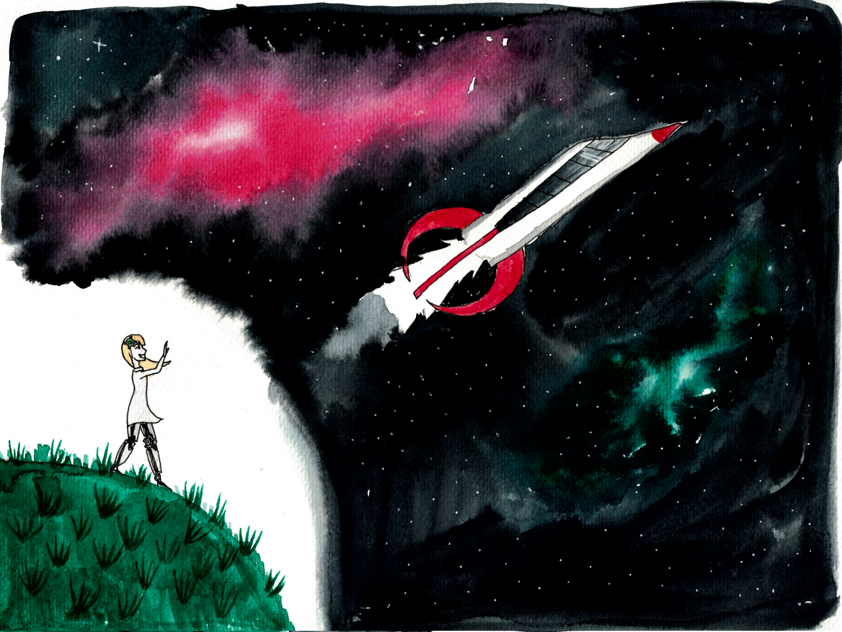
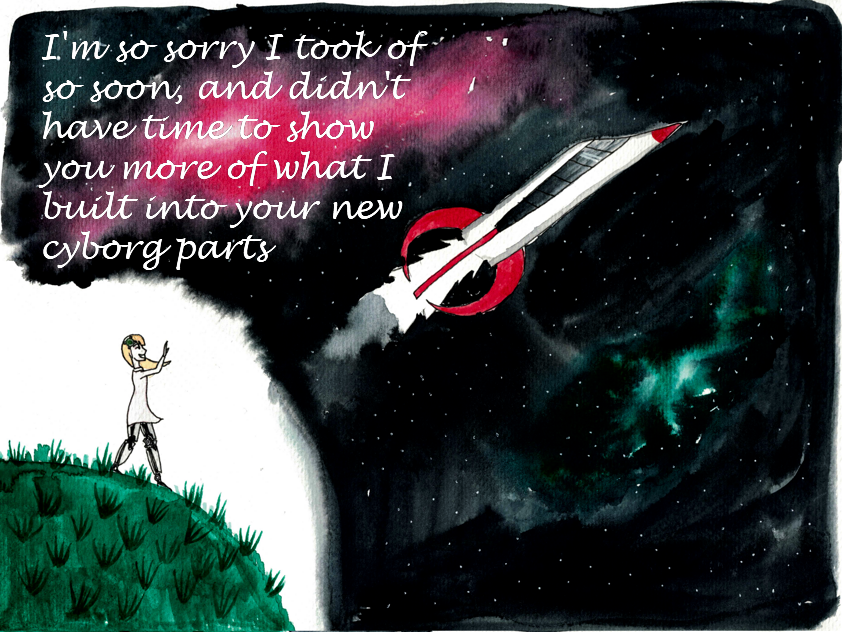
fjernelse af fejl igen igen igen igen

Changed region(s): [[0.0309, 0.0601, 0.4941, 0.4209]]

diff --git a/Lily/src/lily/Splashscreen2Controller.java b/Lily/src/lily/Splashscreen2Controller.java
@@ -1,0 +1,67 @@
+/*
+ * To change this license header, choose License Headers in Project Properties.
+ * To change this template file, choose Tools | Templates
+ * and open the template in the editor.
+ */
+package lily;
+
+import Game_data.GameFacade;
+import java.io.IOException;
+import java.net.URL;
+import java.util.ResourceBundle;
+import javafx.event.ActionEvent;
+import javafx.fxml.FXML;
+import javafx.fxml.FXMLLoader;
+import javafx.fxml.Initializable;
+import javafx.scene.Parent;
+import javafx.scene.Scene;
+import javafx.scene.control.Button;
+import javafx.scene.control.TextArea;
+
+
+/**
+ * FXML Controller class
+ *
+ * @author Zuzu
+ */
+public class Splashscreen2Controller implements Initializable {
+
+    @FXML
+    private TextArea labyrinthEndTextArea;
+    @FXML
+    private Button labyrinthEndConfirmButton;
+
+    private GameFacade facade = new GameFacade();
+
+    static Scene scene;
+
+    Parent root;
+
+    /**
+     * Initializes the controller class.
+     */
+    @Override
+    public void initialize(URL url, ResourceBundle rb) {
+        // TODO
+        if (facade.getWon("Brain")) {
+            labyrinthEndTextArea.appendText("BRAINSYSTEMS RESTORED [OK]\nBRAINSYSTEM STABILIZED [OK]\nPRESS CONFIRM TO PROCEED");
+
+        } else {
+            labyrinthEndTextArea.appendText("CONNECTION TO BRAINSYSTEM LOST. ERROR.. ERR... BRAINSYSTEM NONFUNCTIONAL\nPRESS CONFIRM TO PROCEED!");
+
+        }
+
+    }
+
+    @FXML
+    private void labyrinthEndButton(ActionEvent event) throws IOException {
+        changeScene("GameMenu");
+    }
+
+    public void changeScene(String newScene) throws IOException {
+        root = FXMLLoader.load(getClass().getResource(newScene + ".fxml"));
+        scene = labyrinthEndConfirmButton.getScene();
+        scene.setRoot(root);
+        scene.getRoot().requestFocus();
+    }
+}

diff --git a/Lily/src/lily/FXMLSplashController.java b/Lily/src/lily/FXMLSplashController.java
@@ -58,7 +58,10 @@ public class FXMLSplashController implements Initializable {
         mainBack[1] = new Image(getClass().getResource("/Assets/2.png").toExternalForm());
         mainBack[2] = new Image(getClass().getResource("/Assets/3.png").toExternalForm());
         mainBack[3] = new Image(getClass().getResource("/Assets/4.png").toExternalForm());
-
+        Image succes = new Image(getClass().getResource("/Assets/succes.png").toExternalForm());
+        Image para = new Image(getClass().getResource("/Assets/para.png").toExternalForm());
+        Image brain = new Image(getClass().getResource("/Assets/Brain.png").toExternalForm());
+        Image dead = new Image(getClass().getResource("/Assets/Dead.png").toExternalForm());
         if (checkArray < mainBack.length) {
             view.setImage(mainBack[checkArray]);
             checkArray++;
@@ -67,22 +70,22 @@ public class FXMLSplashController implements Initializable {
             if (facade.getWon("Legs") && facade.getWon("Brain") && facade.getWon("Heart")) {
                 //Working
                 
-                
+                view.setImage(succes);
                 
             } else if (facade.getWon("Brain") && facade.getWon("Heart")) {
                 //Paralyzed
                 
-                
+                view.setImage(para);
                 
             } else if (facade.getWon("Heart")) {
                 //Braindamage
                 
-                
+                view.setImage(brain);
                 
             } else {
                 //Dead
                 
-                
+                view.setImage(dead);
                 
             }
             

diff --git a/Lily/src/lily/GameMenuController.java b/Lily/src/lily/GameMenuController.java
@@ -53,7 +53,7 @@ public class GameMenuController implements Initializable {
 
     @FXML
     private void legsAction(MouseEvent event) throws IOException {
-        if (!facade.getCompleted("Legs") && !facade.getCompleted("brain") && !facade.getCompleted("Heart")) {
+        if (!facade.getCompleted("Legs") && !facade.getCompleted("Brain") && !facade.getCompleted("Heart")) {
             changeScene("FXMLDocument", legs);
         }
 
@@ -67,16 +67,16 @@ public class GameMenuController implements Initializable {
 
     @FXML
     private void heartActon(MouseEvent event) throws IOException {
-        if (facade.getCompleted("Legs") && facade.getCompleted("brain") && !facade.getCompleted("Heart")) {
-         //   changeScene("", heartButton);
+        if (facade.getCompleted("Legs") && facade.getCompleted("Brain") && !facade.getCompleted("Heart")) {
+          // changeScene("", heartButton);
         }
 
     }
 
     @FXML
     private void brainAction(MouseEvent event) throws IOException {
-        if (facade.getCompleted("Legs") && !facade.getCompleted("brain") && !facade.getCompleted("Heart")) {
-          //  changeScene("", brainButton);
+        if (facade.getCompleted("Legs") && !facade.getCompleted("Brain") && !facade.getCompleted("Heart")) {
+            changeScene("VendeSpil", brainButton);
         }
     }
 

diff --git a/Lily/src/lily/Lily.java b/Lily/src/lily/Lily.java
@@ -21,7 +21,7 @@ public class Lily extends Application {
     private GameFacade facade = new GameFacade();
     @Override
     public void start(Stage stage) throws Exception {
-        Parent root = FXMLLoader.load(getClass().getResource("VendeSpil.fxml"));
+        Parent root = FXMLLoader.load(getClass().getResource("mainMenu.fxml"));
         
         Scene scene = new Scene(root);
         stage.setTitle("GGJ18: Lily");
